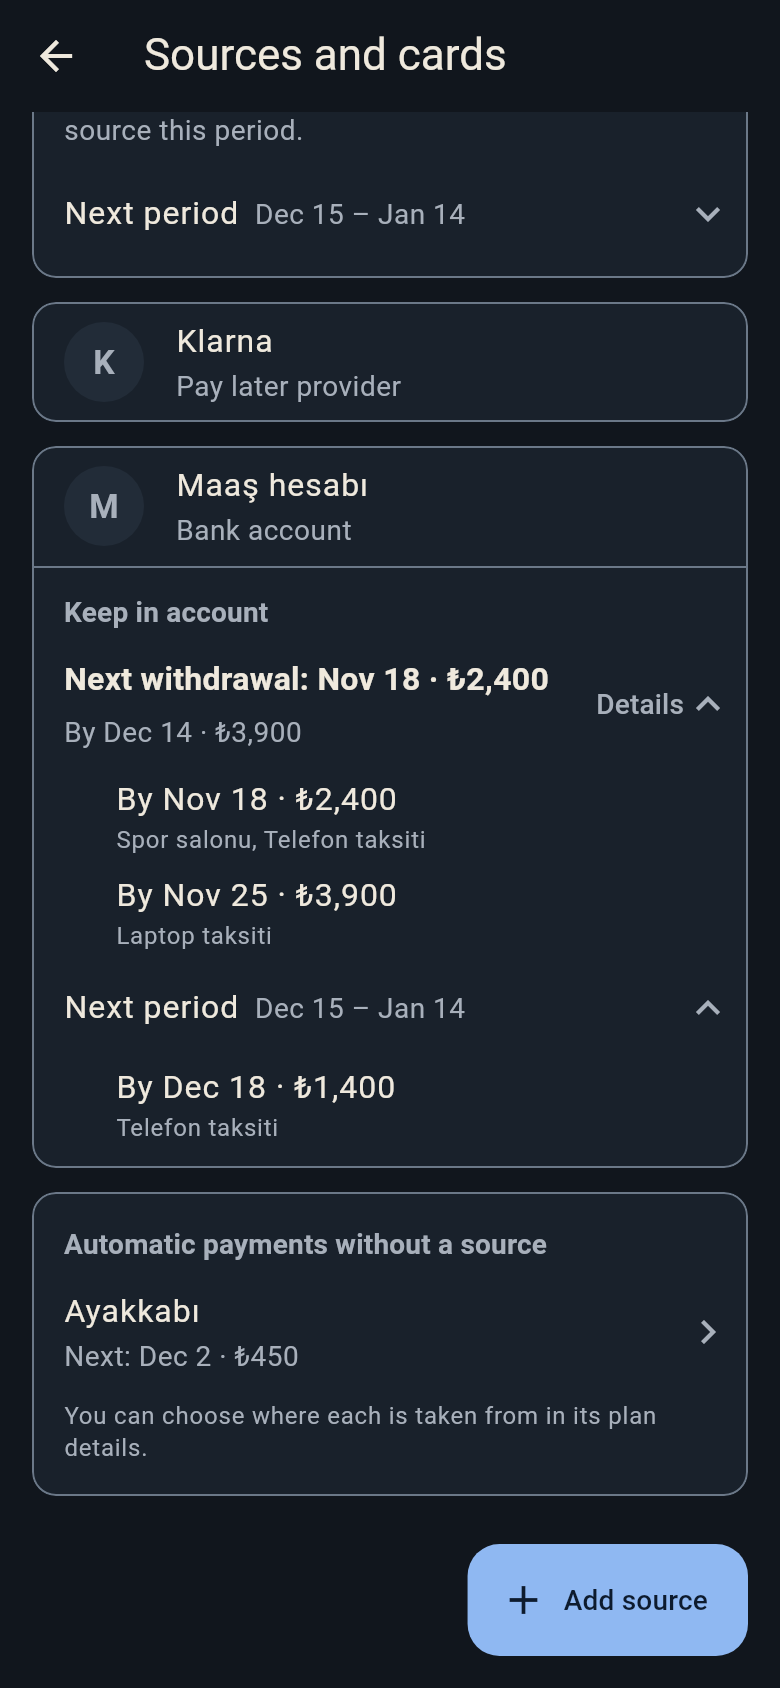
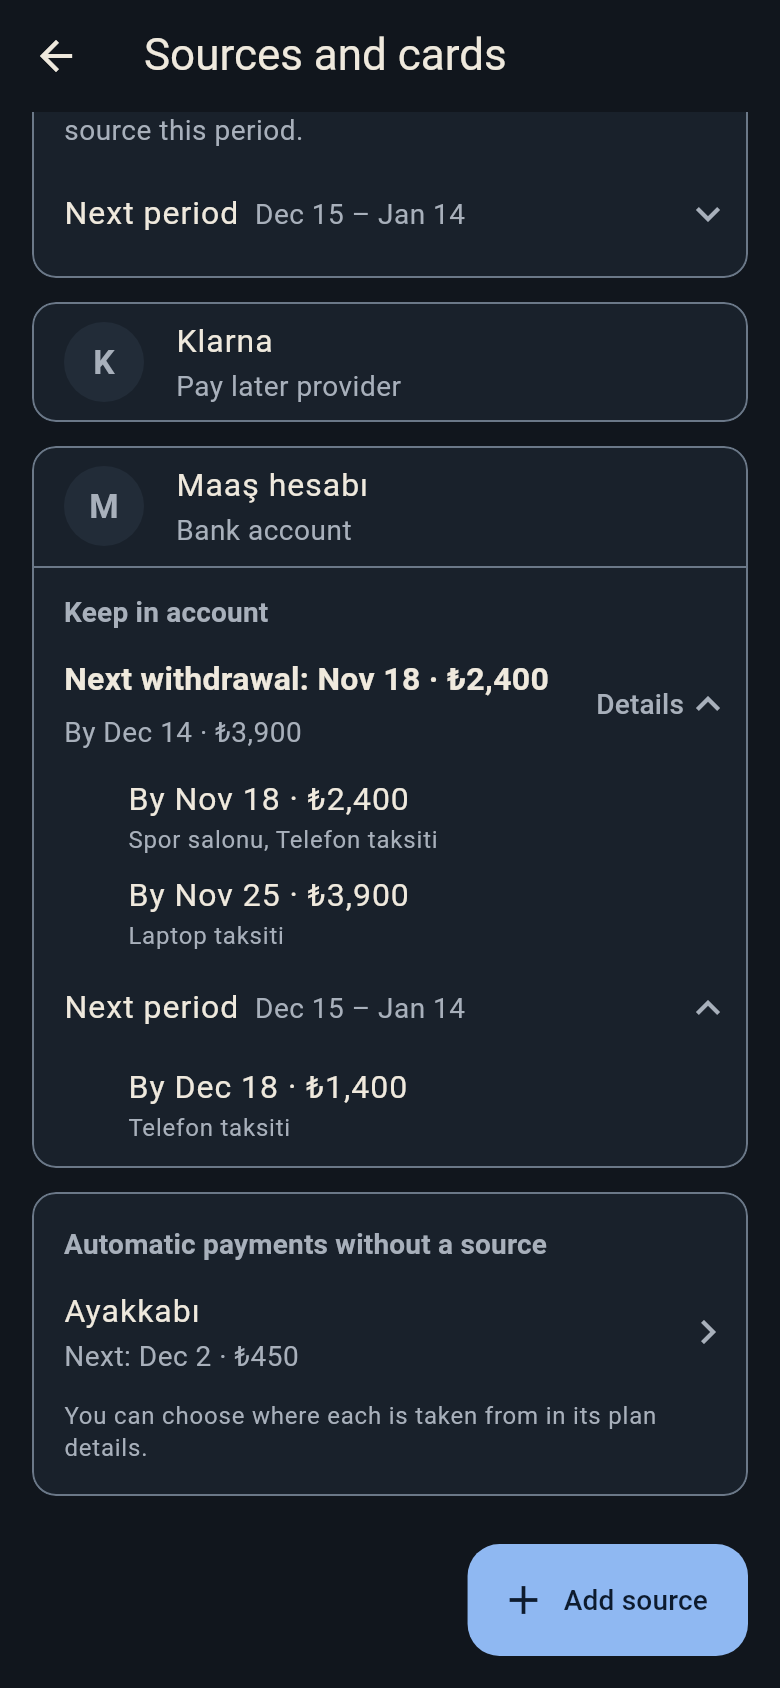
18: Review fixes: one semantics node per toggle, note only when a source exists
Claude-Session: https://claude.ai/code/session_01Cwxe7vRv3DAgpKEsgm3gL1

Changed region(s): [[0.1538, 0.4621, 0.5538, 0.5853], [0.1538, 0.6161, 0.5231, 0.6777]]

diff --git a/lib/features/sources/charge_section.dart b/lib/features/sources/charge_section.dart
@@ -184,43 +184,45 @@ class _Toggle extends StatelessWidget {
   @override
   Widget build(BuildContext context) {
     final colors = context.colors;
-    return Semantics(
-      button: true,
-      expanded: expanded,
-      child: InkWell(
-        onTap: onTap,
-        child: ConstrainedBox(
-          constraints: const BoxConstraints(
-            minHeight: kMinInteractiveDimension,
-          ),
-          child: Padding(
-            padding: const EdgeInsetsDirectional.fromSTEB(
-              KalanSpace.md,
-              KalanSpace.xs,
-              KalanSpace.xs,
-              KalanSpace.xs,
+    return MergeSemantics(
+      child: Semantics(
+        button: true,
+        expanded: expanded,
+        child: InkWell(
+          onTap: onTap,
+          child: ConstrainedBox(
+            constraints: const BoxConstraints(
+              minHeight: kMinInteractiveDimension,
             ),
-            child: Row(
-              children: [
-                Expanded(child: child),
-                if (trailingLabel != null) ...[
-                  const SizedBox(width: KalanSpace.xs),
-                  Text(
-                    trailingLabel!,
-                    style: Theme.of(context).textTheme.labelLarge
-                        ?.copyWith(color: colors.textMuted),
+            child: Padding(
+              padding: const EdgeInsetsDirectional.fromSTEB(
+                KalanSpace.md,
+                KalanSpace.xs,
+                KalanSpace.xs,
+                KalanSpace.xs,
+              ),
+              child: Row(
+                children: [
+                  Expanded(child: child),
+                  if (trailingLabel != null) ...[
+                    const SizedBox(width: KalanSpace.xs),
+                    Text(
+                      trailingLabel!,
+                      style: Theme.of(context).textTheme.labelLarge
+                          ?.copyWith(color: colors.textMuted),
+                    ),
+                  ],
+                  ExcludeSemantics(
+                    child: AnimatedRotation(
+                      turns: expanded ? 0.5 : 0,
+                      duration: MediaQuery.disableAnimationsOf(context)
+                          ? Duration.zero
+                          : const Duration(milliseconds: 200),
+                      child: Icon(Icons.expand_more, color: colors.textMuted),
+                    ),
                   ),
                 ],
-                ExcludeSemantics(
-                  child: AnimatedRotation(
-                    turns: expanded ? 0.5 : 0,
-                    duration: MediaQuery.disableAnimationsOf(context)
-                        ? Duration.zero
-                        : const Duration(milliseconds: 200),
-                    child: Icon(Icons.expand_more, color: colors.textMuted),
-                  ),
-                ),
-              ],
+              ),
             ),
           ),
         ),
@@ -228,6 +230,11 @@ class _Toggle extends StatelessWidget {
     );
   }
 }
+
+/// Tick and clock size on a day row, and the square they sit in: the
+/// height of the row's first line, so the icon is centred on it.
+const double _rowIconSize = 18;
+const double _rowIconSlot = 24;
 
 /// One day: "By 25 Nov · ₺3.900" (running total) with the names below; a
 /// paid day muted with a tick; today's row with a clock when it holds a
@@ -249,15 +256,15 @@ class _ChargeRowTile extends ConsumerWidget {
     final Widget icon;
     if (row.isPaid) {
       icon = ExcludeSemantics(
-        child: Icon(Icons.check, size: 18, color: colors.text),
+        child: Icon(Icons.check, size: _rowIconSize, color: colors.text),
       );
     } else if (row.includesPastDue) {
       icon = Semantics(
         label: l10n.chargePastDue,
-        child: Icon(Icons.schedule, size: 18, color: colors.text),
+        child: Icon(Icons.schedule, size: _rowIconSize, color: colors.text),
       );
     } else {
-      icon = const SizedBox(width: 18);
+      icon = const SizedBox.shrink();
     }
     return MergeSemantics(
       child: Padding(
@@ -270,9 +277,10 @@ class _ChargeRowTile extends ConsumerWidget {
         child: Row(
           crossAxisAlignment: CrossAxisAlignment.start,
           children: [
-            Padding(
-              padding: const EdgeInsets.only(top: 2),
-              child: SizedBox(width: 18, child: icon),
+            // The icon sits on the first line's centre.
+            SizedBox.square(
+              dimension: _rowIconSlot,
+              child: Center(child: icon),
             ),
             const SizedBox(width: KalanSpace.xs),
             Expanded(
@@ -313,9 +321,17 @@ class _ChargeRowTile extends ConsumerWidget {
 /// the end, one row per plan with its next payment; a row opens the plan,
 /// where the source can be chosen.
 class UnassignedChargesCard extends ConsumerWidget {
-  const UnassignedChargesCard({required this.items, super.key});
+  const UnassignedChargesCard({
+    required this.items,
+    required this.canChoose,
+    super.key,
+  });
 
   final List<ChargeItem> items;
+
+  /// Whether any source exists: the plan details offer a choice only then,
+  /// so the note pointing there is shown only then.
+  final bool canChoose;
 
   @override
   Widget build(BuildContext context, WidgetRef ref) {
@@ -396,20 +412,23 @@ class UnassignedChargesCard extends ConsumerWidget {
                 ),
               ),
             ),
-          Padding(
-            padding: const EdgeInsets.fromLTRB(
-              KalanSpace.md,
-              KalanSpace.xxs,
-              KalanSpace.md,
-              KalanSpace.md,
-            ),
-            child: Text(
-              l10n.chargeUnassignedNote,
-              style: theme.textTheme.bodySmall?.copyWith(
-                color: colors.textMuted,
+          if (!canChoose)
+            const SizedBox(height: KalanSpace.xs)
+          else
+            Padding(
+              padding: const EdgeInsets.fromLTRB(
+                KalanSpace.md,
+                KalanSpace.xxs,
+                KalanSpace.md,
+                KalanSpace.md,
+              ),
+              child: Text(
+                l10n.chargeUnassignedNote,
+                style: theme.textTheme.bodySmall?.copyWith(
+                  color: colors.textMuted,
+                ),
               ),
             ),
-          ),
         ],
       ),
     );

diff --git a/test/features/charge_forecast_screen_test.dart b/test/features/charge_forecast_screen_test.dart
@@ -1,13 +1,14 @@
 import 'package:drift/drift.dart' show Value;
 import 'package:flutter_riverpod/flutter_riverpod.dart';
 import 'package:flutter_test/flutter_test.dart';
-import 'package:kalan/core/date/local_date.dart';
+import 'package:kalan/core/engine/engine.dart';
 import 'package:kalan/core/money/currency.dart';
 import 'package:kalan/core/money/money_format.dart';
 import 'package:kalan/core/routing/router.dart';
 import 'package:kalan/core/routing/routes.dart';
 import 'package:kalan/core/theme/kalan_theme.dart';
 import 'package:kalan/data/db/app_database.dart';
+import 'package:kalan/data/repositories/plan_repository.dart';
 import 'package:kalan/features/home/home_view.dart';
 import 'package:kalan/features/plans/add_plan_screen.dart' show SourceNameField;
 import 'package:kalan/features/sources/charge_forecast_view.dart';
@@ -319,5 +320,70 @@ void main() {
     await tester.pumpAndSettle();
     expect(find.text('Maaşkart'), findsOneWidget);
     expect(find.text('Maaşım'), findsNothing);
+  });
+
+  testWidgets('open and closed are heard by screen readers', (tester) async {
+    final handle = tester.ensureSemantics();
+    await open(tester);
+    for (final key in [
+      'charge-details-${ids.maas}',
+      'charge-next-period-${ids.maas}',
+    ]) {
+      final f = find.byKey(ValueKey(key));
+      await tester.ensureVisible(f);
+      await tester.pumpAndSettle();
+      expect(
+        tester.getSemantics(f),
+        matchesSemantics(
+          isButton: true,
+          hasExpandedState: true,
+          isExpanded: false,
+          hasTapAction: true,
+          isFocusable: true,
+          hasFocusAction: true,
+          label: key.startsWith('charge-details')
+              ? 'Sıradaki çekim: 18 Kas · ${tl(240000)}\n'
+                    '14 Ara tarihine kadar · ${tl(390000)}\nAyrıntı'
+              : 'Sonraki dönem\n15 Ara – 14 Oca',
+        ),
+      );
+      await tester.tap(f);
+      await tester.pumpAndSettle();
+      expect(
+        tester.getSemantics(f),
+        containsSemantics(isExpanded: true, hasExpandedState: true),
+      );
+    }
+    handle.dispose();
+  });
+
+  testWidgets('no source at all: the card shows, without the note', (
+    tester,
+  ) async {
+    await pumpApp(
+      tester,
+      today: chargeToday,
+      seed: (db) async {
+        await seedSettings(db);
+        await PlanRepository(db).saveDraft(
+          PlanCalculator.payLater(
+            purchaseDate: chargeToday,
+            rule: const PayLaterRule.days(14),
+            totalMinor: 30000,
+          ),
+          sourceId: null,
+          origin: PlanOrigin.template,
+          title: 'Ayakkabı',
+          paymentMethod: PaymentMethod.automatic,
+        );
+      },
+      overrides: [initialRouteProvider.overrideWithValue(Routes.sources)],
+    );
+    expect(find.byKey(const ValueKey('charge-unassigned')), findsOneWidget);
+    expect(find.text('Sıradaki: 29 Kas · ${tl(30000)}'), findsOneWidget);
+    expect(
+      find.text('Çekildiği yeri planın ayrıntısından seçebilirsin.'),
+      findsNothing,
+    );
   });
 }

diff --git a/test/core/reminders/charge_account_reminder_test.dart b/test/core/reminders/charge_account_reminder_test.dart
@@ -192,4 +192,22 @@ void main() {
       isNull,
     );
   });
+
+  test('a payment with reminders off is not in the sentence total', () {
+    // The same account, the same day, but its plan's reminders are off:
+    // the notification speaks only for the payments it holds.
+    final r = plan([
+      ...example,
+      ReminderPayment(
+        name: 'Laptop taksiti',
+        date: d(11, 14),
+        amountMinor: 150000,
+        method: auto,
+        account: maas,
+        ref: const PlanPaymentRef(9),
+        choice: ReminderChoice.disabled,
+      ),
+    ]);
+    expect(aheadOf(r).body, endsWith('Maaş hesabı: ₺2.400 bulunsun.'));
+  });
 }

diff --git a/lib/features/sources/sources_screen.dart b/lib/features/sources/sources_screen.dart
@@ -60,7 +60,10 @@ class _SourcesScreenState extends ConsumerState<SourcesScreen> {
         ref.watch(chargeForecastProvider)?.forecast.unassigned ?? const [];
     final unassignedCard = unassigned.isEmpty
         ? null
-        : UnassignedChargesCard(items: unassigned);
+        : UnassignedChargesCard(
+            items: unassigned,
+            canChoose: sources?.isNotEmpty ?? false,
+          );
     return Scaffold(
       appBar: AppBar(title: Text(l10n.sourcesTitle)),
       floatingActionButton: FloatingActionButton.extended(

diff --git a/docs/DECISIONS.md b/docs/DECISIONS.md
@@ -619,3 +619,6 @@ Yol Haritası 18. Açık sorular ürün sahibinin iş tanımında cevaplandı: "
 | Metinler | Brif örneklerinden: "Hesapta bulunsun", "Bu karta yansıyacak", "Sıradaki çekim: {date} · {amount}", "{date} tarihine kadar · {amount}" (Türkçe 'a/'e eki tarihe göre değiştiği için "tarihine kadar"), "Sonraki dönem", "Ayrıntı". Ödenmiş satır "{date} · {amount} ödendi". Tarihler kısa biçim (16'daki gibi "18 Kas"). Çevirmen açıklamalarında "Bu, bakiye uyarısı değil; çıkacak tutarı gösteren sakin bir hatırlatmadır." notu. |
 | Bildirim | Yalnızca "önceden" bildiriminde (ertelenen ve ısrarlı "önceden" dahil), tutar görünürken, bildirimdeki bütün ödemeler aynı banka hesabından otomatik ve tek tarihliyse (`reminderAccountOf`). 9. maddedeki otomatik notunun yerine geçer: "Otomatik çekilir. {account}: {amount} bulunsun." / "It's taken automatically. Keep {amount} in {account}." Böylece "Otomatik çekilir" bilgisi kalır, aynı şey iki kez söylenmez. Tutar bildirimdeki ödemelerin toplamıdır (o günün o hesaptan çıkanı). Türkçede hesap adı kullanıcının yazdığı gibi kalır ve ek almaz ("Maaş hesabı hesabında" olmasın diye brifteki "{account} hesabında" yerine iki nokta). Kart, sağlayıcı, kaynaksız, karışık hesap, sabit ödeme içeren grup, "gününde" ve gecikmiş bildirimlerde metin eskisi gibi. Yeni bildirim yok, kimlikler ve düğmeler aynı (testli). |
 
+| Bildirim tutarı ile ekran farkı | Bildirimdeki tutar yalnızca o bildirimdeki ödemelerin toplamıdır. Aynı gün aynı hesaptan çekilen ama hatırlatması "Kapalı" olan bir ödeme bildirime girmez, tutara da girmez; Kaynaklar ekranındaki "Sıradaki çekim" onu da sayar. Bilerek böyle (Karar 11: bildirim kısa, ayrıntı ekranda; hatırlatmasını kapatan ödeme bildirimde anılmaz); testle sabitlendi (inceleme bulgusu). |
+| Kaynak yokken | Hiç kaynak yokken kaynaksız kart görünür ama "Çekildiği yeri planın ayrıntısından seçebilirsin." notu çıkmaz: plan ayrıntısı seçimi yalnızca en az bir kaynak varken sunar (inceleme bulgusu). |
+| Erişilebilirlik | "Ayrıntı" ve "Sonraki dönem" satırları tek düğüm: ekran okuyucu metni, düğme olduğunu ve açık/kapalı durumunu birlikte okur (testli). |
